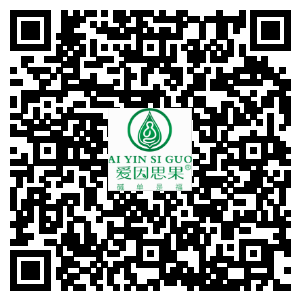
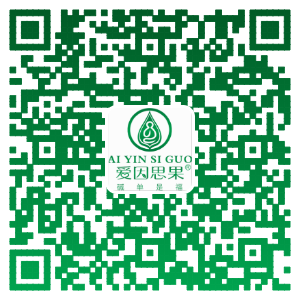
页面完善

diff --git a/thinkingfruit/thinkingFruit-client/src/main/webapp/static/js/my/index.js b/thinkingfruit/thinkingFruit-client/src/main/webapp/static/js/my/index.js
@@ -78,7 +78,7 @@ var my_index_ops = {
 	eventBind : function() {
 		//二维码
 		$("#invite").click(function(){
-			 var html="<img src='http://qr.liantu.com/api.php?&bg=ffffff&fg=000000&text="+"http://www.517310.com/thinkingFruit-client/agent/register?inviterId="+memberId+"'>";
+			 var html="<img src='http://qr.liantu.com/api.php?&bg=ffffff&fg=005824&gc=00a650&logo="+"http://www.517310.com/thinkingFruit-client/static/images/log.png"+"&text="+"http://www.517310.com/thinkingFruit-client/agent/register?inviterId="+memberId+"'>";
 			 console.log("html"+html)
         layer.open({
               type: 1,
